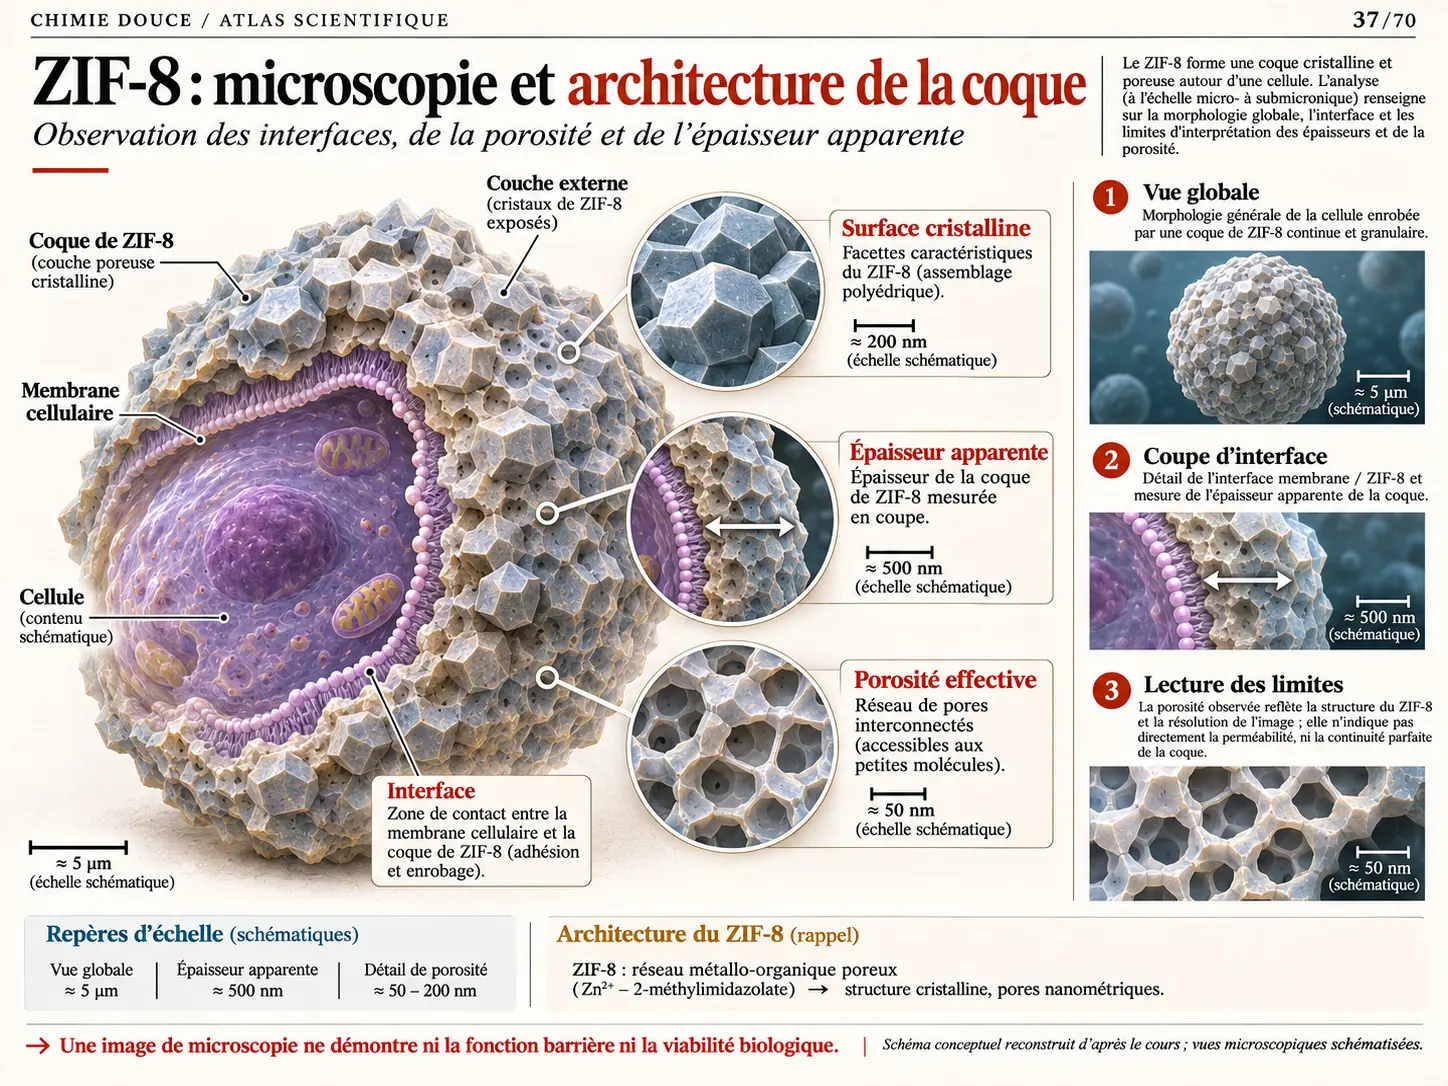
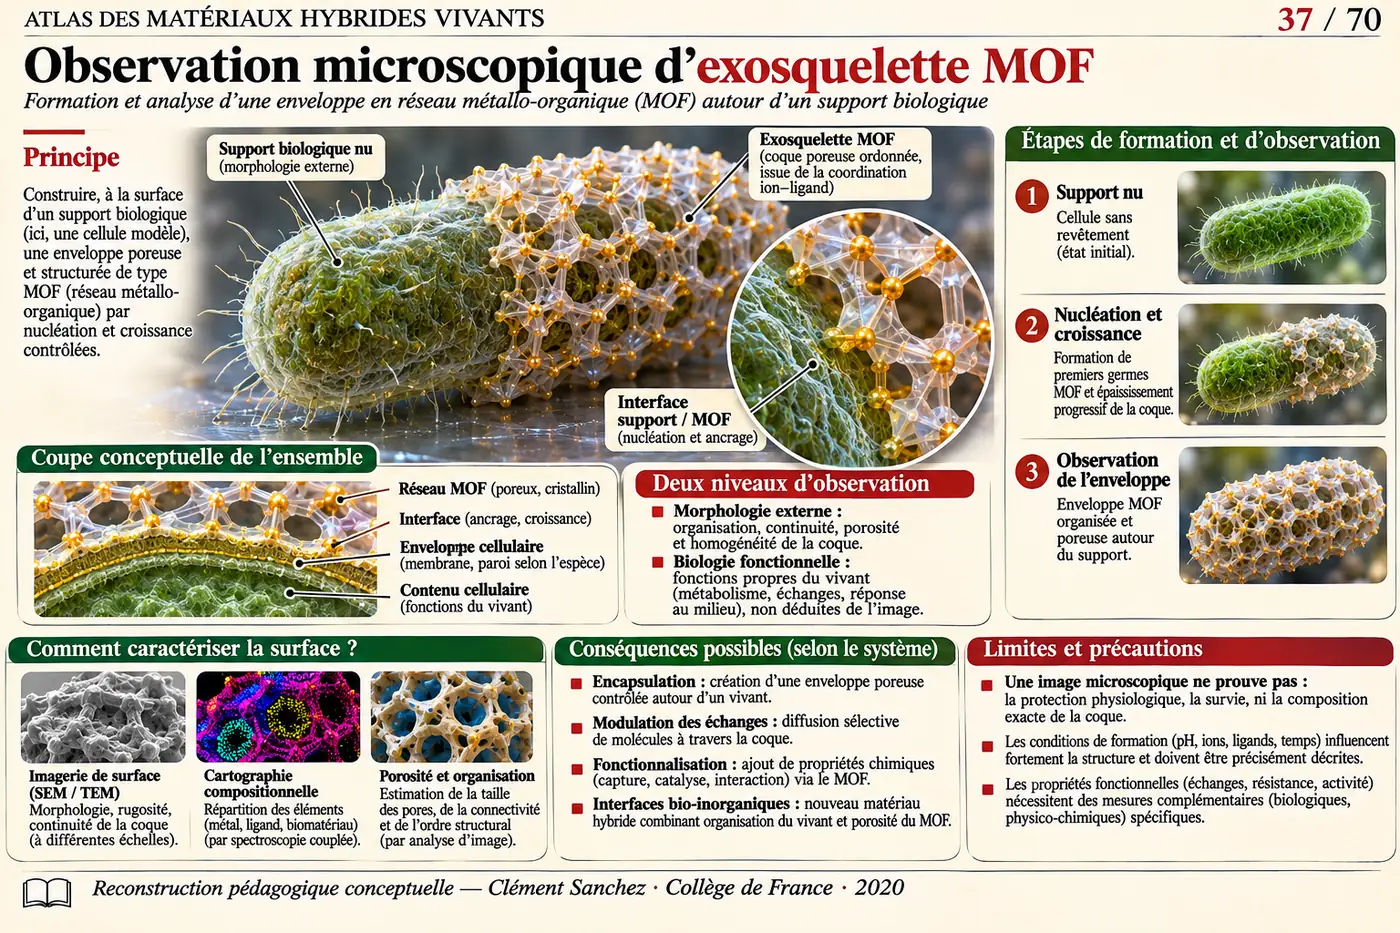
feat(chimie): replace plates 03–10 and 37 with scientific cream atlas illustrations; preserve original lecture slides

diff --git a/chimie-douce/src/redesigned-plates.js b/chimie-douce/src/redesigned-plates.js
@@ -1,6 +1,6 @@
 /* Non-interactive educational reconstructions. Original source slides are always retained. */
 const SOURCE='Clément Sanchez — Collège de France, 18 février 2020';
-const IDS=Object.freeze([1,2,7,11,12,13,14,15,16,17,18,19,20,21,22,23,24,25,26,27,28,29,30,31,32,33,34,35,36,37,38,39,40,41,42,43,44,45,46,51,52,53,54,55,56,57,58,59,60,61,62]);
+const IDS=Object.freeze([1,2,3,4,5,6,7,8,9,10,11,12,13,14,15,16,17,18,19,20,21,22,23,24,25,26,27,28,29,30,31,32,33,34,35,36,37,38,39,40,41,42,43,44,45,46,51,52,53,54,55,56,57,58,59,60,61,62]);
 const LEGACY=Object.fromEntries(IDS.map(id=>[
   id,Object.freeze({
     src:new URL('../assets/atlas-redessine/planche-'+String(id).padStart(2,'0')+'.webp',import.meta.url).href,
@@ -11,7 +11,7 @@ const LEGACY=Object.fromEntries(IDS.map(id=>[
   })
 ]));
 /* Scientific vector edition, drawn on cream stock. All original slides remain available. */
-const VECTOR_IDS=Object.freeze([3,4,5,6,8,9,10,47,48,49,50,63,64,65,66,67,68,69,70]);
+const VECTOR_IDS=Object.freeze([47,48,49,50,63,64,65,66,67,68,69,70]);
 const VECTOR_NOTES=Object.freeze({
  1:'Carte du cours : illustration conceptuelle sans hiérarchie expérimentale.',
  2:'Bactéries, archées et eucaryotes sont distincts ; la diversité biologique est schématisée.',
@@ -60,11 +60,28 @@ const REVIEWED=Object.freeze({
   defaultOriginal:false
  })
 });
-const REDESIGNED=Object.freeze({...LEGACY,...VECTOR,...REVIEWED});
+/* The reconstructed images are conceptual. Never infer a measured physiological
+   or structural result from a rendered 3D illustration. */
+const UPDATED_SCIENCE_NOTES=Object.freeze({
+ 3:'Coupe comparative conceptuelle de cellules bactériennes et eucaryotes : les enveloppes et compositions chimiques varient selon espèces et conditions ; le dessin ne mesure ni perméabilité ni interaction cellulaire.',
+ 4:'Façade végétalisée reconstituée : architecture et échanges schématiques. Les gains thermiques, la qualité de l’air et les services écosystémiques nécessitent des mesures adaptées ; aucune valeur n’est établie ici.',
+ 5:'Procédé de croissance mycélienne expliqué conceptuellement : substrat, inoculation, colonisation, mise en forme et inactivation. Les températures et durées montrées sont illustratives, non une recette validée pour toutes les souches.',
+ 6:'Applications potentielles des composites mycéliens : les propriétés mécaniques, thermiques, acoustiques, la résistance au feu et la durabilité sont dépendantes de la formulation et nécessitent essais normalisés.',
+ 7:'La carbonatation chimique du ciment et la minéralisation associée à des bactéries sont deux mécanismes distincts. Une fissure obturée ne prouve pas la restauration de résistance mécanique.',
+ 8:'Reconstruction d’un système à spores et lactate de calcium : les schémas d’activation, de dissolution et de précipitation sont pédagogiques. Ni taux de fermeture, ni résistance récupérée, ni survie prolongée ne sont mesurés.',
+ 9:'Actionnement hygroscopique par changement de volume de spores dans une matrice souple : aucun déplacement, nombre de cycles ou force n’est une mesure expérimentale ; la réponse dépend de l’humidité et du montage.',
+ 10:'Interfaces entre cellules encapsulées, biomatériau et tissus : la diffusion des nutriments et la réponse immunitaire exigent une caractérisation expérimentale. Les tailles et morphologies dessinées sont illustratives.',
+ 37:'Image de synthèse, NON une micrographie d’échantillon MOF : les représentations de surface et de réseau sont conceptuelles ; identifier composition, cristallinité, distribution et protection physiologique nécessite analyses et essais réels.'
+});
+const REDESIGNED=Object.freeze(Object.fromEntries(
+ Object.entries({...LEGACY,...VECTOR,...REVIEWED}).map(([id,plate])=>
+ [id,UPDATED_SCIENCE_NOTES[id]?
+  Object.freeze({...plate,caution:UPDATED_SCIENCE_NOTES[id],defaultOriginal:Number(id)===37}):plate])
+));
 export const redesignedPlate=id=>REDESIGNED[Number(id)]||null;
 export const redesignedCount=()=>new Set([...IDS,...VECTOR_IDS,...Object.keys(REVIEWED).map(Number)]).size;
 /* Presence does not mean art-direction approval: precise progress categories. */
 export const detailedPlateCount=()=>new Set([...IDS,...Object.keys(REVIEWED).map(Number)]).size;
 export const schematicPlateCount=()=>VECTOR_IDS.filter(id=>!REVIEWED[id]).length;
-export const editorialPlateStatus=id=>([7].includes(Number(id))?'titre intégré à corriger':REVIEWED[id]?'illustration détaillée disponible':VECTOR_IDS.includes(Number(id))?'reconstruction schématique à reprendre':'illustration détaillée disponible');
+export const editorialPlateStatus=id=>(REVIEWED[id]?'illustration détaillée disponible':VECTOR_IDS.includes(Number(id))?'reconstruction schématique à reprendre':'illustration détaillée disponible · relecture scientifique requise');
 export const redesignedIds=()=>[...new Set([...IDS,...VECTOR_IDS,...Object.keys(REVIEWED).map(Number)])].sort((a,b)=>a-b);

diff --git a/chimie-douce/planches/REGISTRE_REFONTE_GRAPHIQUE.md b/chimie-douce/planches/REGISTRE_REFONTE_GRAPHIQUE.md
@@ -2,19 +2,11 @@
 
 **Source primaire :** Clément Sanchez, *Vers des matériaux hybrides vivants*, Collège de France, 18 février 2020.
 
-**État au 22 novembre 2026 :** 51/70 illustrations détaillées présentes sous réserve de relecture, dont les planches 01 et 02 nouvellement refaites ; 19 SVG provisoires encore à remplacer. La planche 07 reste à corriger pour son titre intégré.
+**État au 22 novembre 2026 : **58/70 illustrations détaillées disponibles pour relecture**, dont plusieurs sous réserve de vérification scientifique ; **12/70 schémas provisoires à remplacer**. Les 70 diapositives originales sont conservées.
 
-## Planches restant à reprendre ou à corriger (20)
+## Planches restant à refaire (12)
 | N° | Titre exact et immuable du catalogue | Statut |
 |---:|---|---|
-| 03 | Barrières cellulaires et interfaces | Schéma provisoire : illustration éditoriale à refaire |
-| 04 | Façades végétalisées | Schéma provisoire : illustration éditoriale à refaire |
-| 05 | Cycle de fabrication des composites de mycélium | Schéma provisoire : illustration éditoriale à refaire |
-| 06 | Composites de mycélium : applications | Schéma provisoire : illustration éditoriale à refaire |
-| 07 | Béton et mécanisme de carbonatation | Titre intégré dans l'image à corriger |
-| 08 | Granulats, spores et lactate de calcium | Schéma provisoire : illustration éditoriale à refaire |
-| 09 | Déformation des spores sous humidité | Schéma provisoire : illustration éditoriale à refaire |
-| 10 | Cellules, surfaces et implantation | Schéma provisoire : illustration éditoriale à refaire |
 | 47 | Assemblage de nanoparticules sur cellule HeLa | Schéma provisoire : illustration éditoriale à refaire |
 | 48 | Réponse à une sonde fonctionnalisée | Schéma provisoire : illustration éditoriale à refaire |
 | 49 | Ligands polyfonctionnels de couplage | Schéma provisoire : illustration éditoriale à refaire |
@@ -69,3 +61,10 @@ Ces images ne reproduisent aucune mesure ou micrographie expérimentale du cours
 - **Éléments distingués :** Bactéries, Archées et Eucaryotes ; procaryotes versus eucaryotes ; membrane plasmique universelle, parois non universelles et de composition variable.
 - **Statut :** illustration détaillée sur fond crème, à faire relire ; les dimensions et barres d’échelle insérées dans le rendu sont artistiques et **ne constituent pas des mesures ni des micrographies calibrées**.
 - **Original :** conservé et disponible dans la comparaison du catalogue.
+
+
+## Remplacements du lot 03–10 et 37
+
+Les figures 03 à 10 ont une illustration scientifique individuelle avec le titre canonique conservé dans `src/figures.js` ; leur diapositive originale reste accessible. La figure 07 distingue carbonatation chimique et réparation bactérienne. La nouvelle figure 37 est une simulation visuelle d’une enveloppe MOF, **non une micrographie d’échantillon** : original affiché par défaut. Les légendes, échelles et phénomènes figurés demandent encore une relecture spécialisée.
+
+**Douze illustrations restent schématiques : 47–50 et 63–70.** La présence d’une image ne constitue pas une validation scientifique définitive ni un accord de Clément Sanchez.
